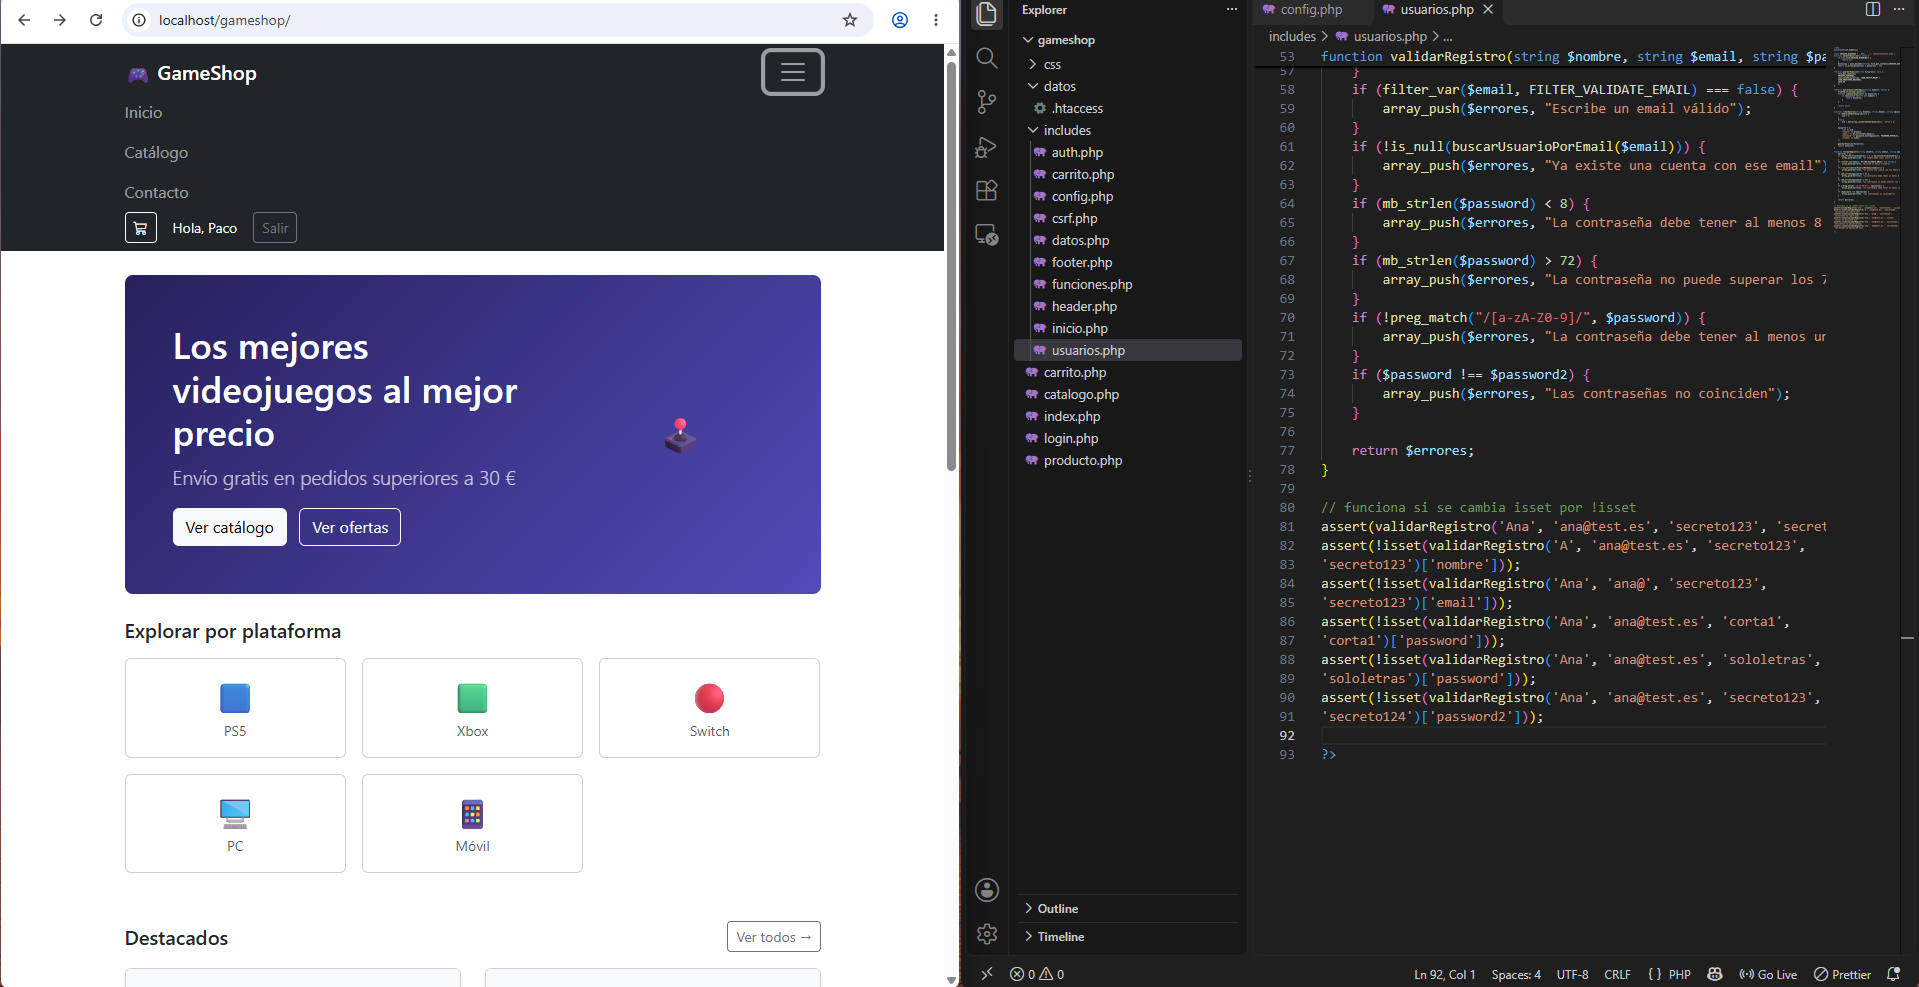
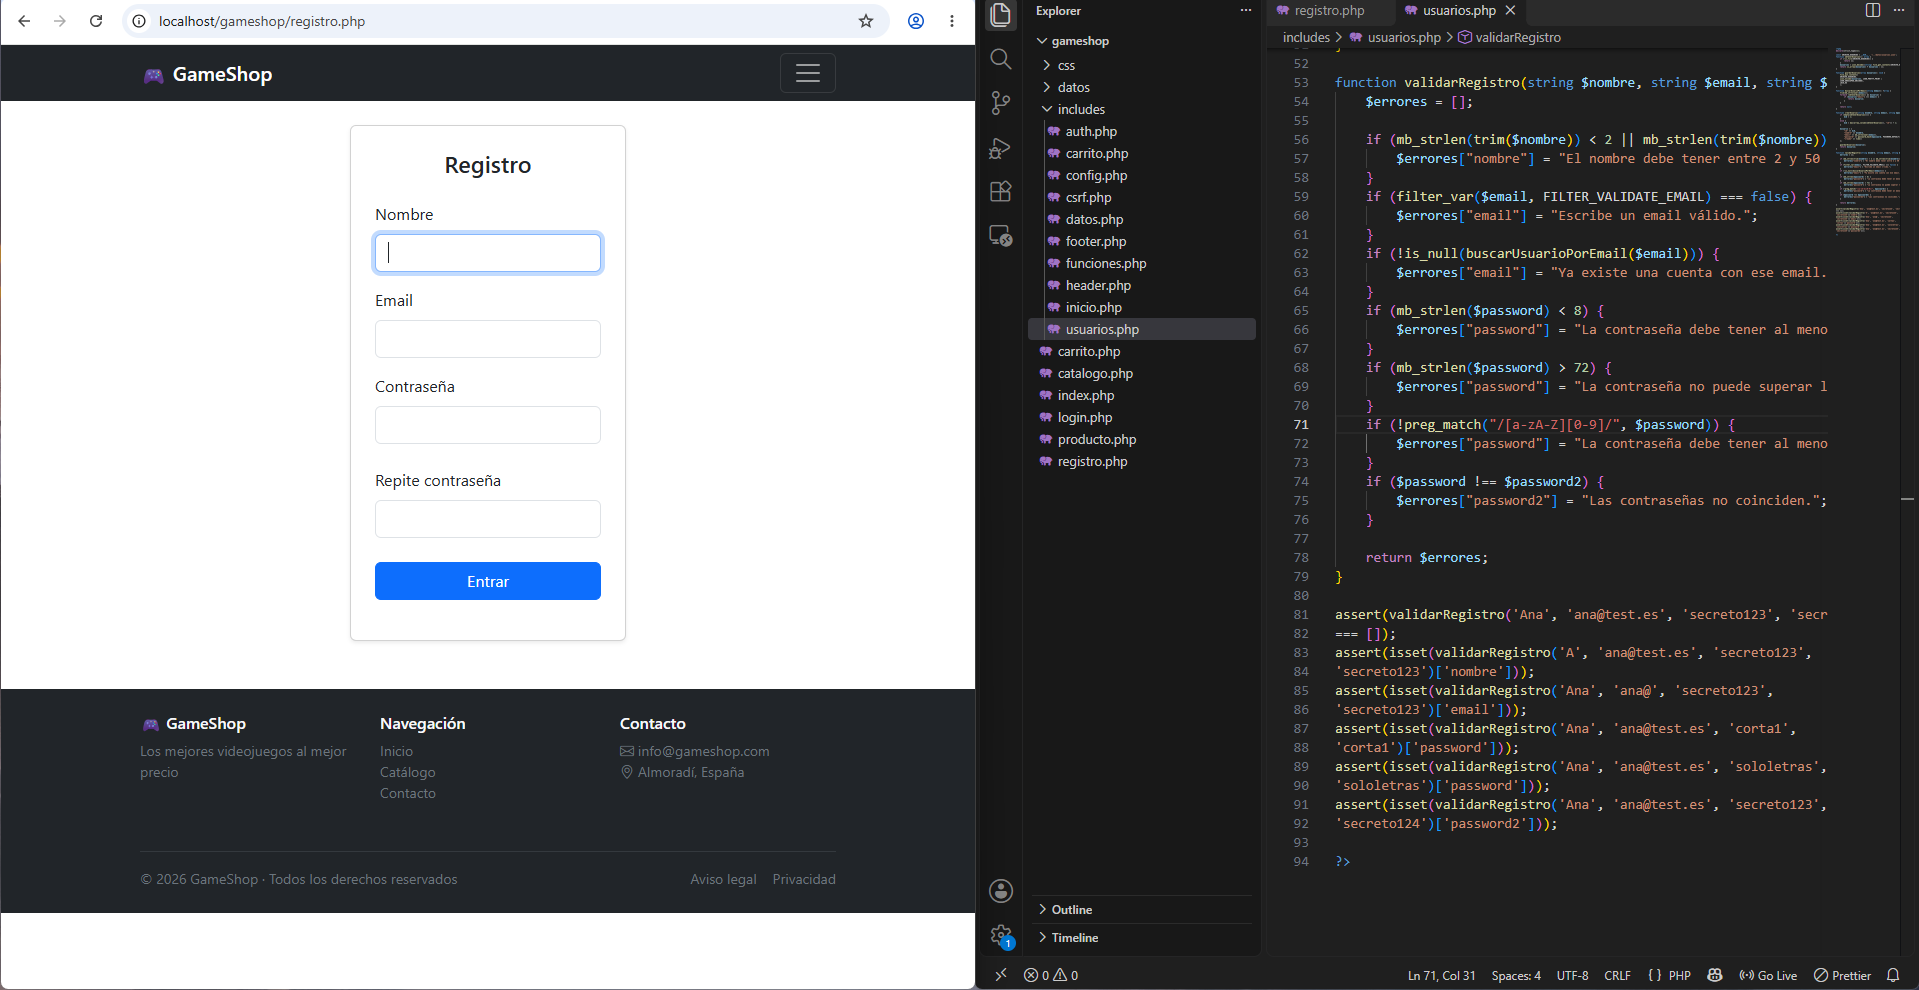
GameShop: TODO arreglar JSON

diff --git a/gameshop/includes/usuarios.php b/gameshop/includes/usuarios.php
@@ -43,7 +43,7 @@ function crearUsuario(string $nombre, string $email, string $password): array {
         "nombre" => $nombre,
         "email" => mb_strtolower($email),
         "password" => password_hash($password, PASSWORD_DEFAULT),
-        "creado" => time()
+        "creado" => date('Y-m-d-H:i:s', time())
     ];
 
     guardarUsuarios($usuario);
@@ -52,42 +52,44 @@ function crearUsuario(string $nombre, string $email, string $password): array {
 
 function validarRegistro(string $nombre, string $email, string $password, string $password2): array {
     $errores = [];
+    
     if (mb_strlen(trim($nombre)) < 2 || mb_strlen(trim($nombre)) > 50) {
-        array_push($errores, "El nombre debe tener entre 2 y 50 caracteres");
+        $errores["nombre"] = "El nombre debe tener entre 2 y 50 caracteres.";
     }
     if (filter_var($email, FILTER_VALIDATE_EMAIL) === false) {
-        array_push($errores, "Escribe un email válido");
+        $errores["email"] = "Escribe un email válido.";
     }
     if (!is_null(buscarUsuarioPorEmail($email))) {
-        array_push($errores, "Ya existe una cuenta con ese email");
+        $errores["email"] = "Ya existe una cuenta con ese email.";
     }
     if (mb_strlen($password) < 8) {
-        array_push($errores, "La contraseña debe tener al menos 8 caracteres");
+        $errores["password"] = "La contraseña debe tener al menos 8 caracteres.";
     }
     if (mb_strlen($password) > 72) {
-        array_push($errores, "La contraseña no puede superar los 72 caracteres");
+        $errores["password"] = "La contraseña no puede superar los 72 caracteres.";
     }
-    if (!preg_match("/[a-zA-Z0-9]/", $password)) {
-        array_push($errores, "La contraseña debe tener al menos una letra y un número");
+    if (!preg_match("/[a-zA-Z][0-9]/", $password)) {
+        $errores["password"] = "La contraseña debe tener al menos una letra y un número.";
     }
     if ($password !== $password2) {
-        array_push($errores, "Las contraseñas no coinciden");
+        $errores["password2"] = "Las contraseñas no coinciden.";
     }
 
     return $errores;
 }
 
-// funciona si se cambia isset por !isset
-assert(validarRegistro('Ana', 'ana@test.es', 'secreto123', 'secreto123') === []);
-assert(!isset(validarRegistro('A', 'ana@test.es', 'secreto123',
+
+assert(validarRegistro('Ana', 'ana@test.es', 'secreto123', 'secreto123')
+=== []);
+assert(isset(validarRegistro('A', 'ana@test.es', 'secreto123',
 'secreto123')['nombre']));
-assert(!isset(validarRegistro('Ana', 'ana@', 'secreto123',
+assert(isset(validarRegistro('Ana', 'ana@', 'secreto123',
 'secreto123')['email']));
-assert(!isset(validarRegistro('Ana', 'ana@test.es', 'corta1',
+assert(isset(validarRegistro('Ana', 'ana@test.es', 'corta1',
 'corta1')['password']));
-assert(!isset(validarRegistro('Ana', 'ana@test.es', 'sololetras',
+assert(isset(validarRegistro('Ana', 'ana@test.es', 'sololetras',
 'sololetras')['password']));
-assert(!isset(validarRegistro('Ana', 'ana@test.es', 'secreto123',
+assert(isset(validarRegistro('Ana', 'ana@test.es', 'secreto123',
 'secreto124')['password2']));
 
 ?>

diff --git a/gameshop/registro.php b/gameshop/registro.php
@@ -2,10 +2,19 @@
     declare(strict_types=1);
     require_once 'includes/inicio.php';
 
+    if ($_SERVER['REQUEST_METHOD'] !== 'POST') {
+      $_SESSION["csrf"] = bin2hex(random_bytes(32));
+    }
+
     $errores = [];
     $datos = ['nombre' => '', 'email' => ''];
 
     if ($_SERVER['REQUEST_METHOD'] === 'POST') {
+        if (!isset($_SESSION["csrf"]) && !isset($_POST["csrf"]) && $_SESSION["csrf"] !== $_POST["csrf"]) {
+          header("Location: registro.php");
+          exit;
+        }
+
         $datos['nombre'] = trim((string) ($_POST['nombre'] ?? ''));
         $datos['email'] = trim((string) ($_POST['email'] ?? ''));
         $password = (string) ($_POST['password'] ?? '');
@@ -35,20 +44,17 @@ require_once("includes/header.php");
         <div class="card-body p-4">
           <h2 class="h4 mb-4 text-center">Registro</h2>
 
-          <!-- Error general (email/contraseña incorrectos o CSRF) -->
-
-          <div class="alert alert-danger">email incorrecto</div>
-
-          <form method="POST" action="myform.php" novalidate>
-            <input type="hidden" name="csrf_token" value="" />
+          <form method="POST" action="registro.php">
+            <input type="hidden" name="csrf" value="<?= $_SESSION["csrf"] ?>" />
             
             <div class="mb-3">
               <label for="nombre" class="form-label">Nombre</label>
               <input 
                 type="text" 
-                class="form-control" 
+                class="form-control <?= isset($errores)?>" 
                 id="nombre" 
-                name="nombre" 
+                name="nombre"
+                value="<?= isset($datos["nombre"]) ? htmlspecialchars($datos["nombre"]) : "" ?>" 
                 autofocus 
                 required>
             </div>
@@ -60,7 +66,8 @@ require_once("includes/header.php");
                 id="email"
                 name="email"
                 class="form-control"
-                autocomplete="email"
+                autocomplete="new-password"
+                value="<?= isset($datos["email"]) ? htmlspecialchars($datos["email"]) : "" ?>"
                 required />
             </div>
 
@@ -71,7 +78,7 @@ require_once("includes/header.php");
                 id="password"
                 name="password"
                 class="form-control"
-                autocomplete="current-password"
+                autocomplete="new-password"
                 required />
             </div>
 
@@ -82,7 +89,6 @@ require_once("includes/header.php");
                 id="password2"
                 name="password2"
                 class="form-control"
-                autocomplete="current-password"
                 required />
             </div>
 

diff --git a/gameshop/login.php b/gameshop/login.php
@@ -19,7 +19,7 @@
 
           <div class="alert alert-danger">email incorrecto</div>
 
-          <form method="POST" action="myform.php" novalidate>
+          <form method="POST" action="myform.php">
             <input type="hidden" name="csrf_token" value="<?= htmlspecialchars($_SESSION["csrf_token"]) ?>" />
             
             <div class="mb-3">
